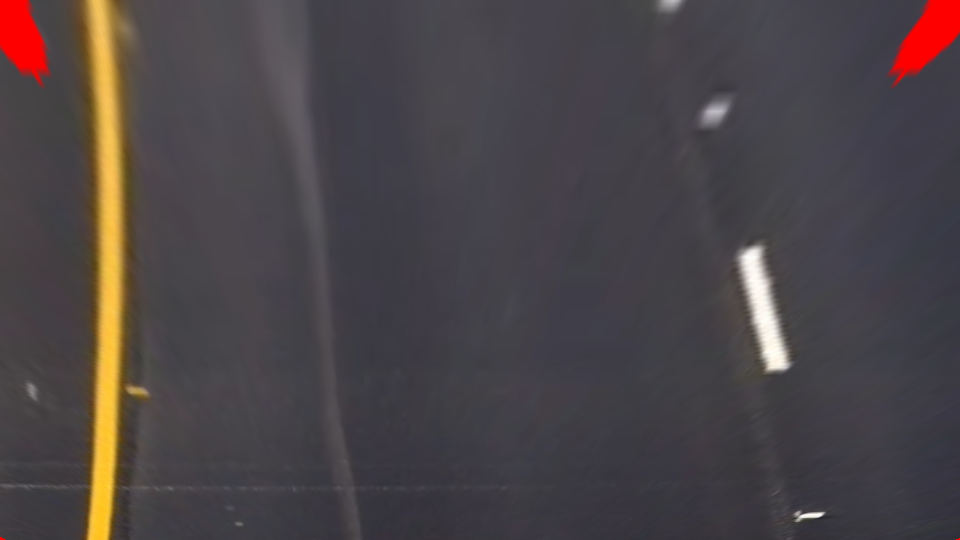
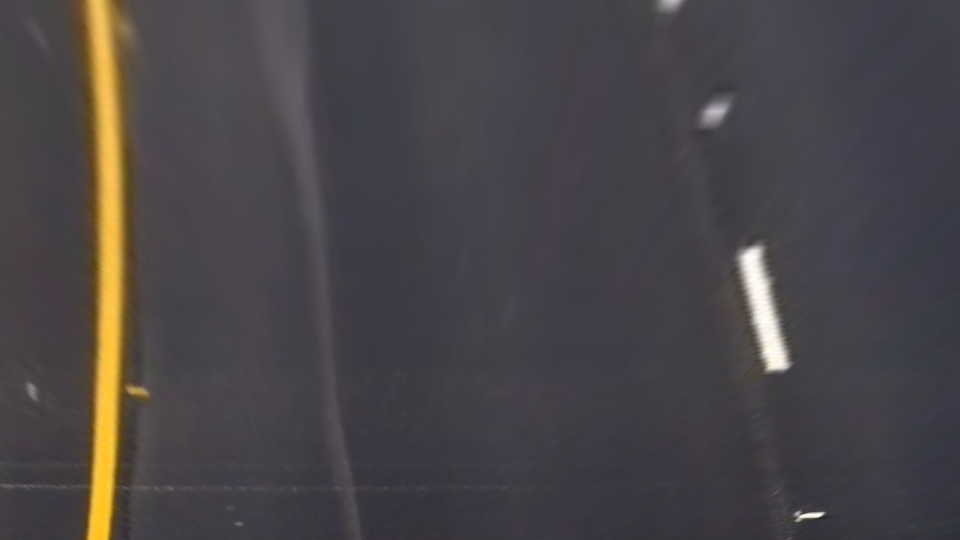
edge detection setup

Changed region(s): [[0.9062, 0.0, 1.0, 0.1481], [0.0, 0.0, 0.0625, 0.1481]]

diff --git a/lane-detection/preprocessing.py b/lane-detection/preprocessing.py
@@ -12,8 +12,8 @@ def perspective_warp(img_path):
     ])
     img_size = np.float32([(img.shape[1],img.shape[0])])
     src = src*img_size
-    for p in src:
-        cv2.circle(img, tuple(p.astype(int)), 6, (0, 0, 255), -1)
+    # for p in src:
+    #     cv2.circle(img, tuple(p.astype(int)), 6, (0, 0, 255), -1)
 
     img_size = (int(img_size[0][0]), int(img_size[0][1]))
     dst = np.float32([
@@ -38,8 +38,19 @@ def edge_detection(img_path):
     # cv2.imshow("birds eye", edges)
     # cv2.waitKey(0)
 
+    birds_eye = cv2.imread(img_path)
+    hls = cv2.cvtColor(birds_eye, cv2.COLOR_BGR2HLS)
+    l = hls[:, :, 1]
+    s = hls[:, :, 2]
 
-# perspective_warp("../data/lane5.png")
-# edge_detection("../data/birds_eye.png")
+    _, l_binary = cv2.threshold(l, 200, 255, cv2.THRESH_BINARY)
+    _, s_binary = cv2.threshold(s, 120, 255, cv2.THRESH_BINARY)
+    combined = np.zeros_like(edges)
+    combined[(edges > 0) | (s_binary > 0)] = 255
+    cv2.imshow("birds eye", combined)
+    cv2.waitKey(0)
+
+perspective_warp("../data/lane5.png")
+edge_detection("../data/birds_eye.png")
 
 # perspective_warp("../data/lane3.png")
